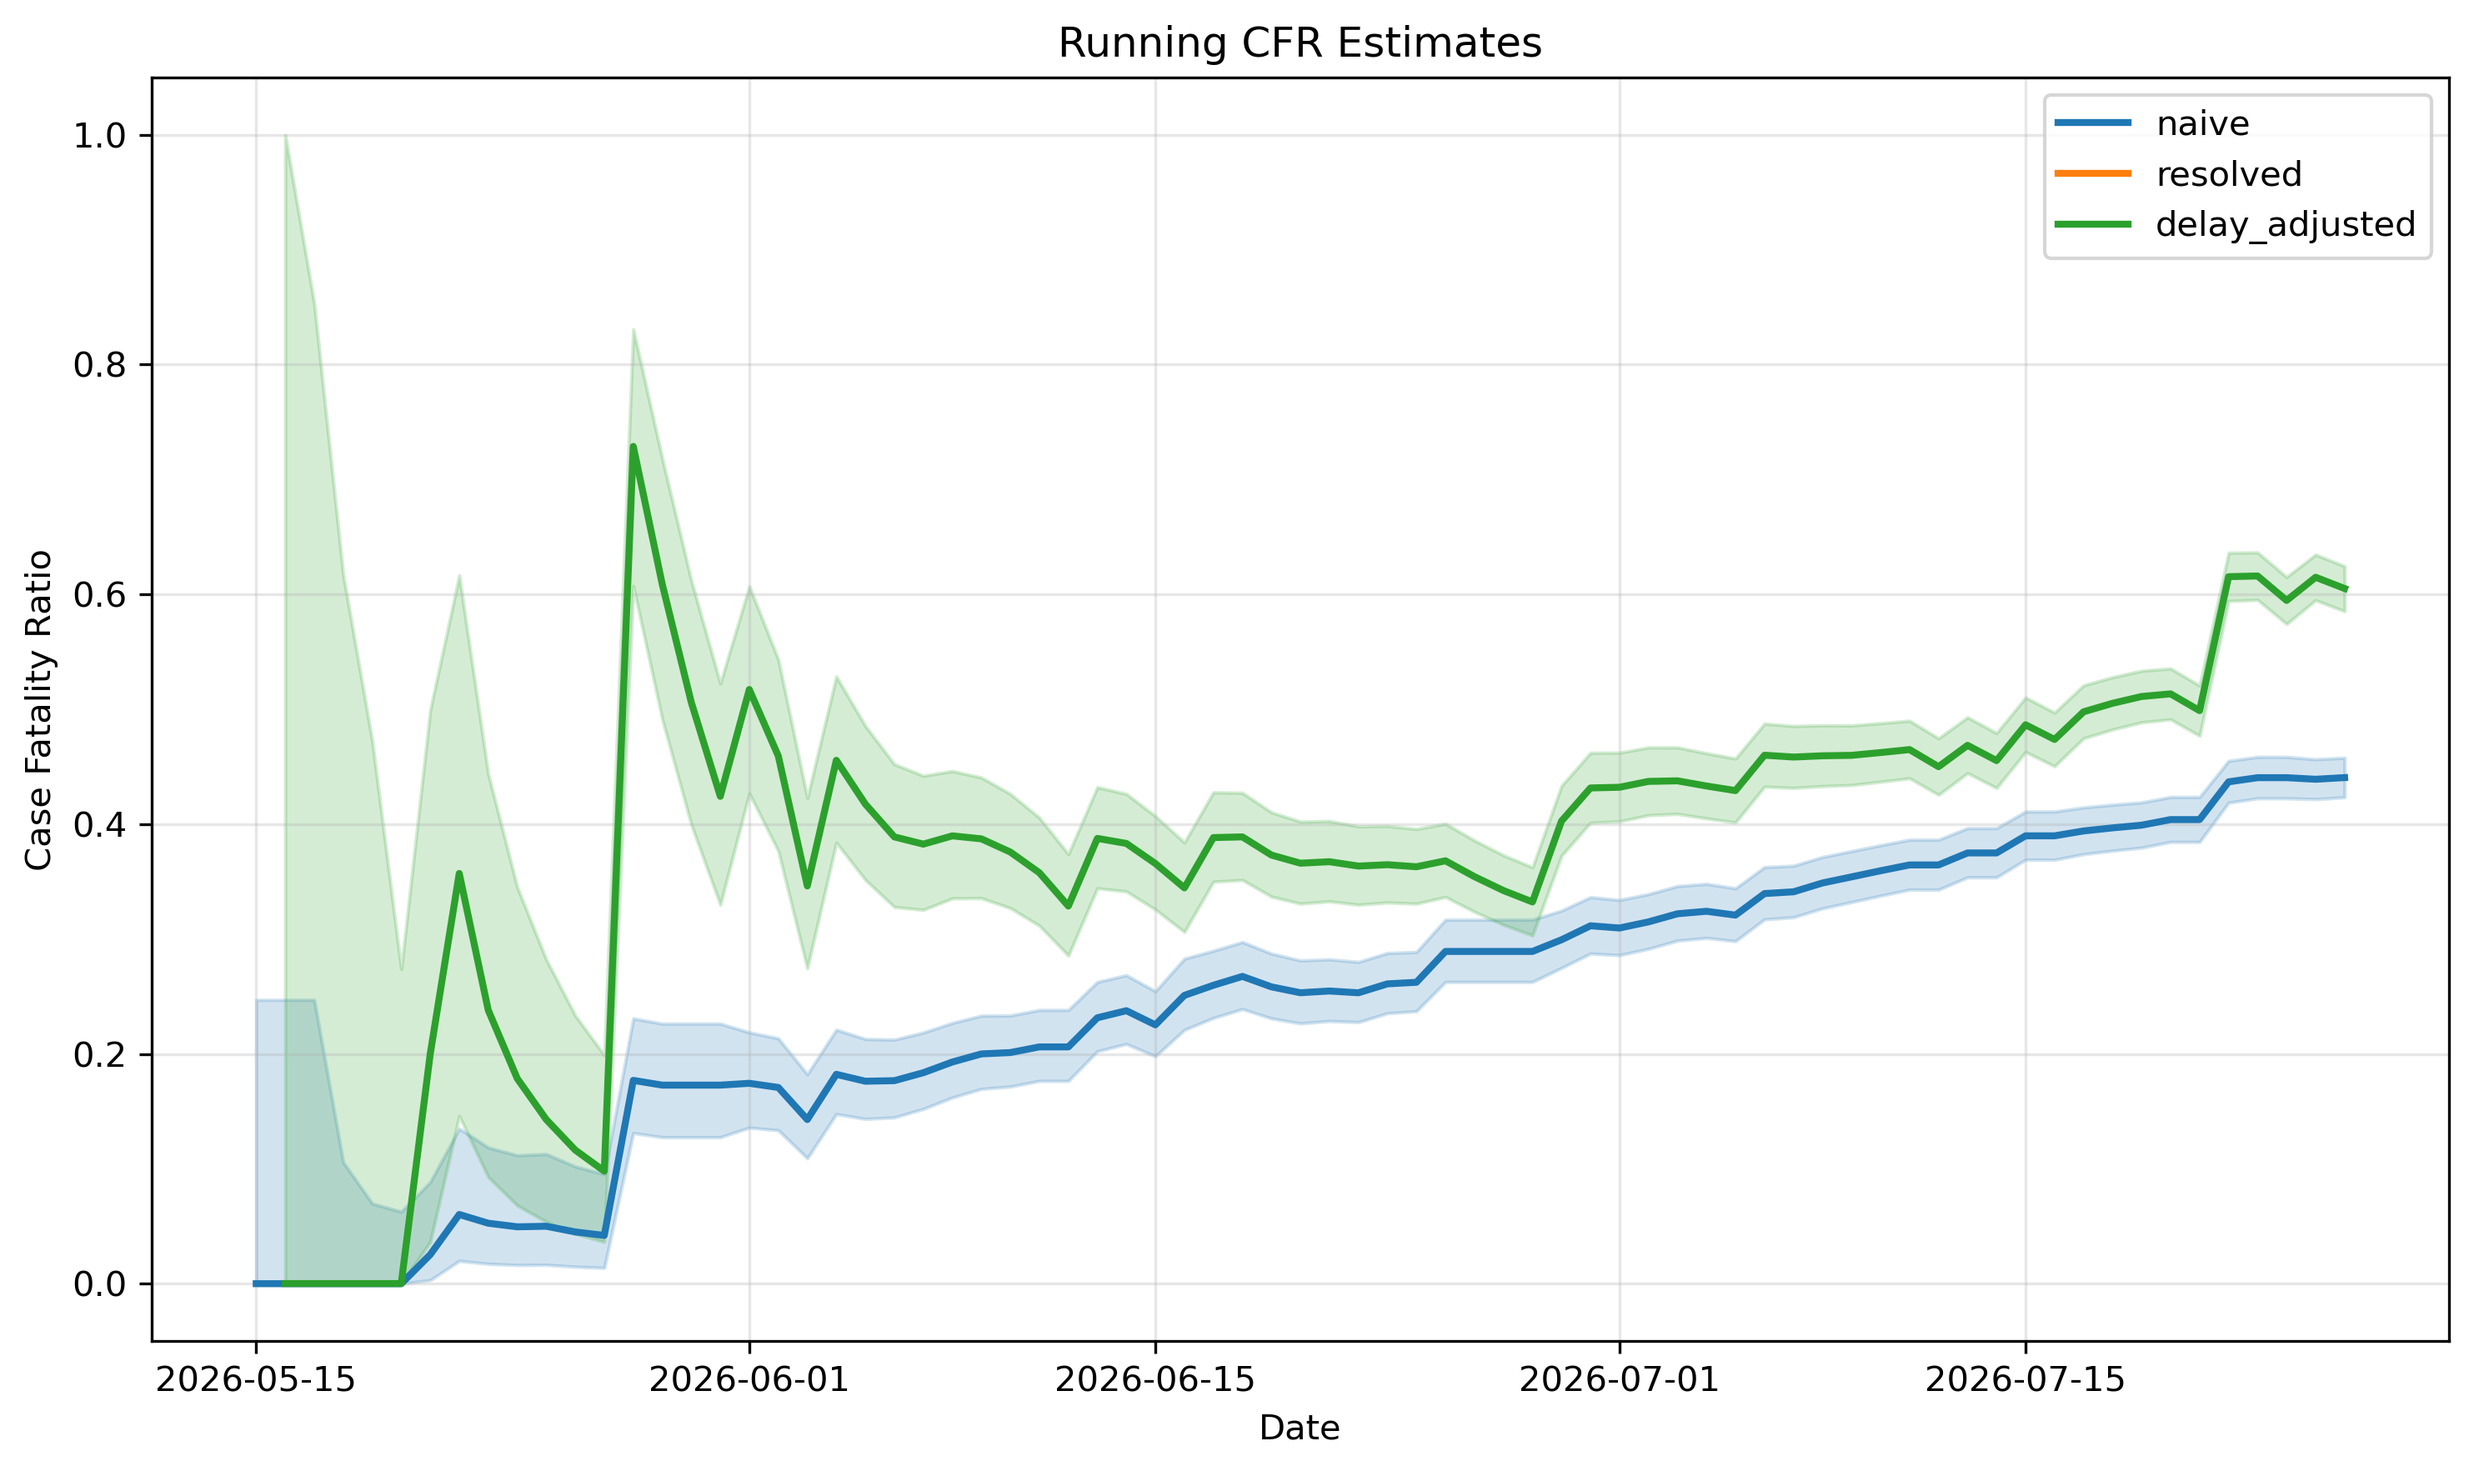
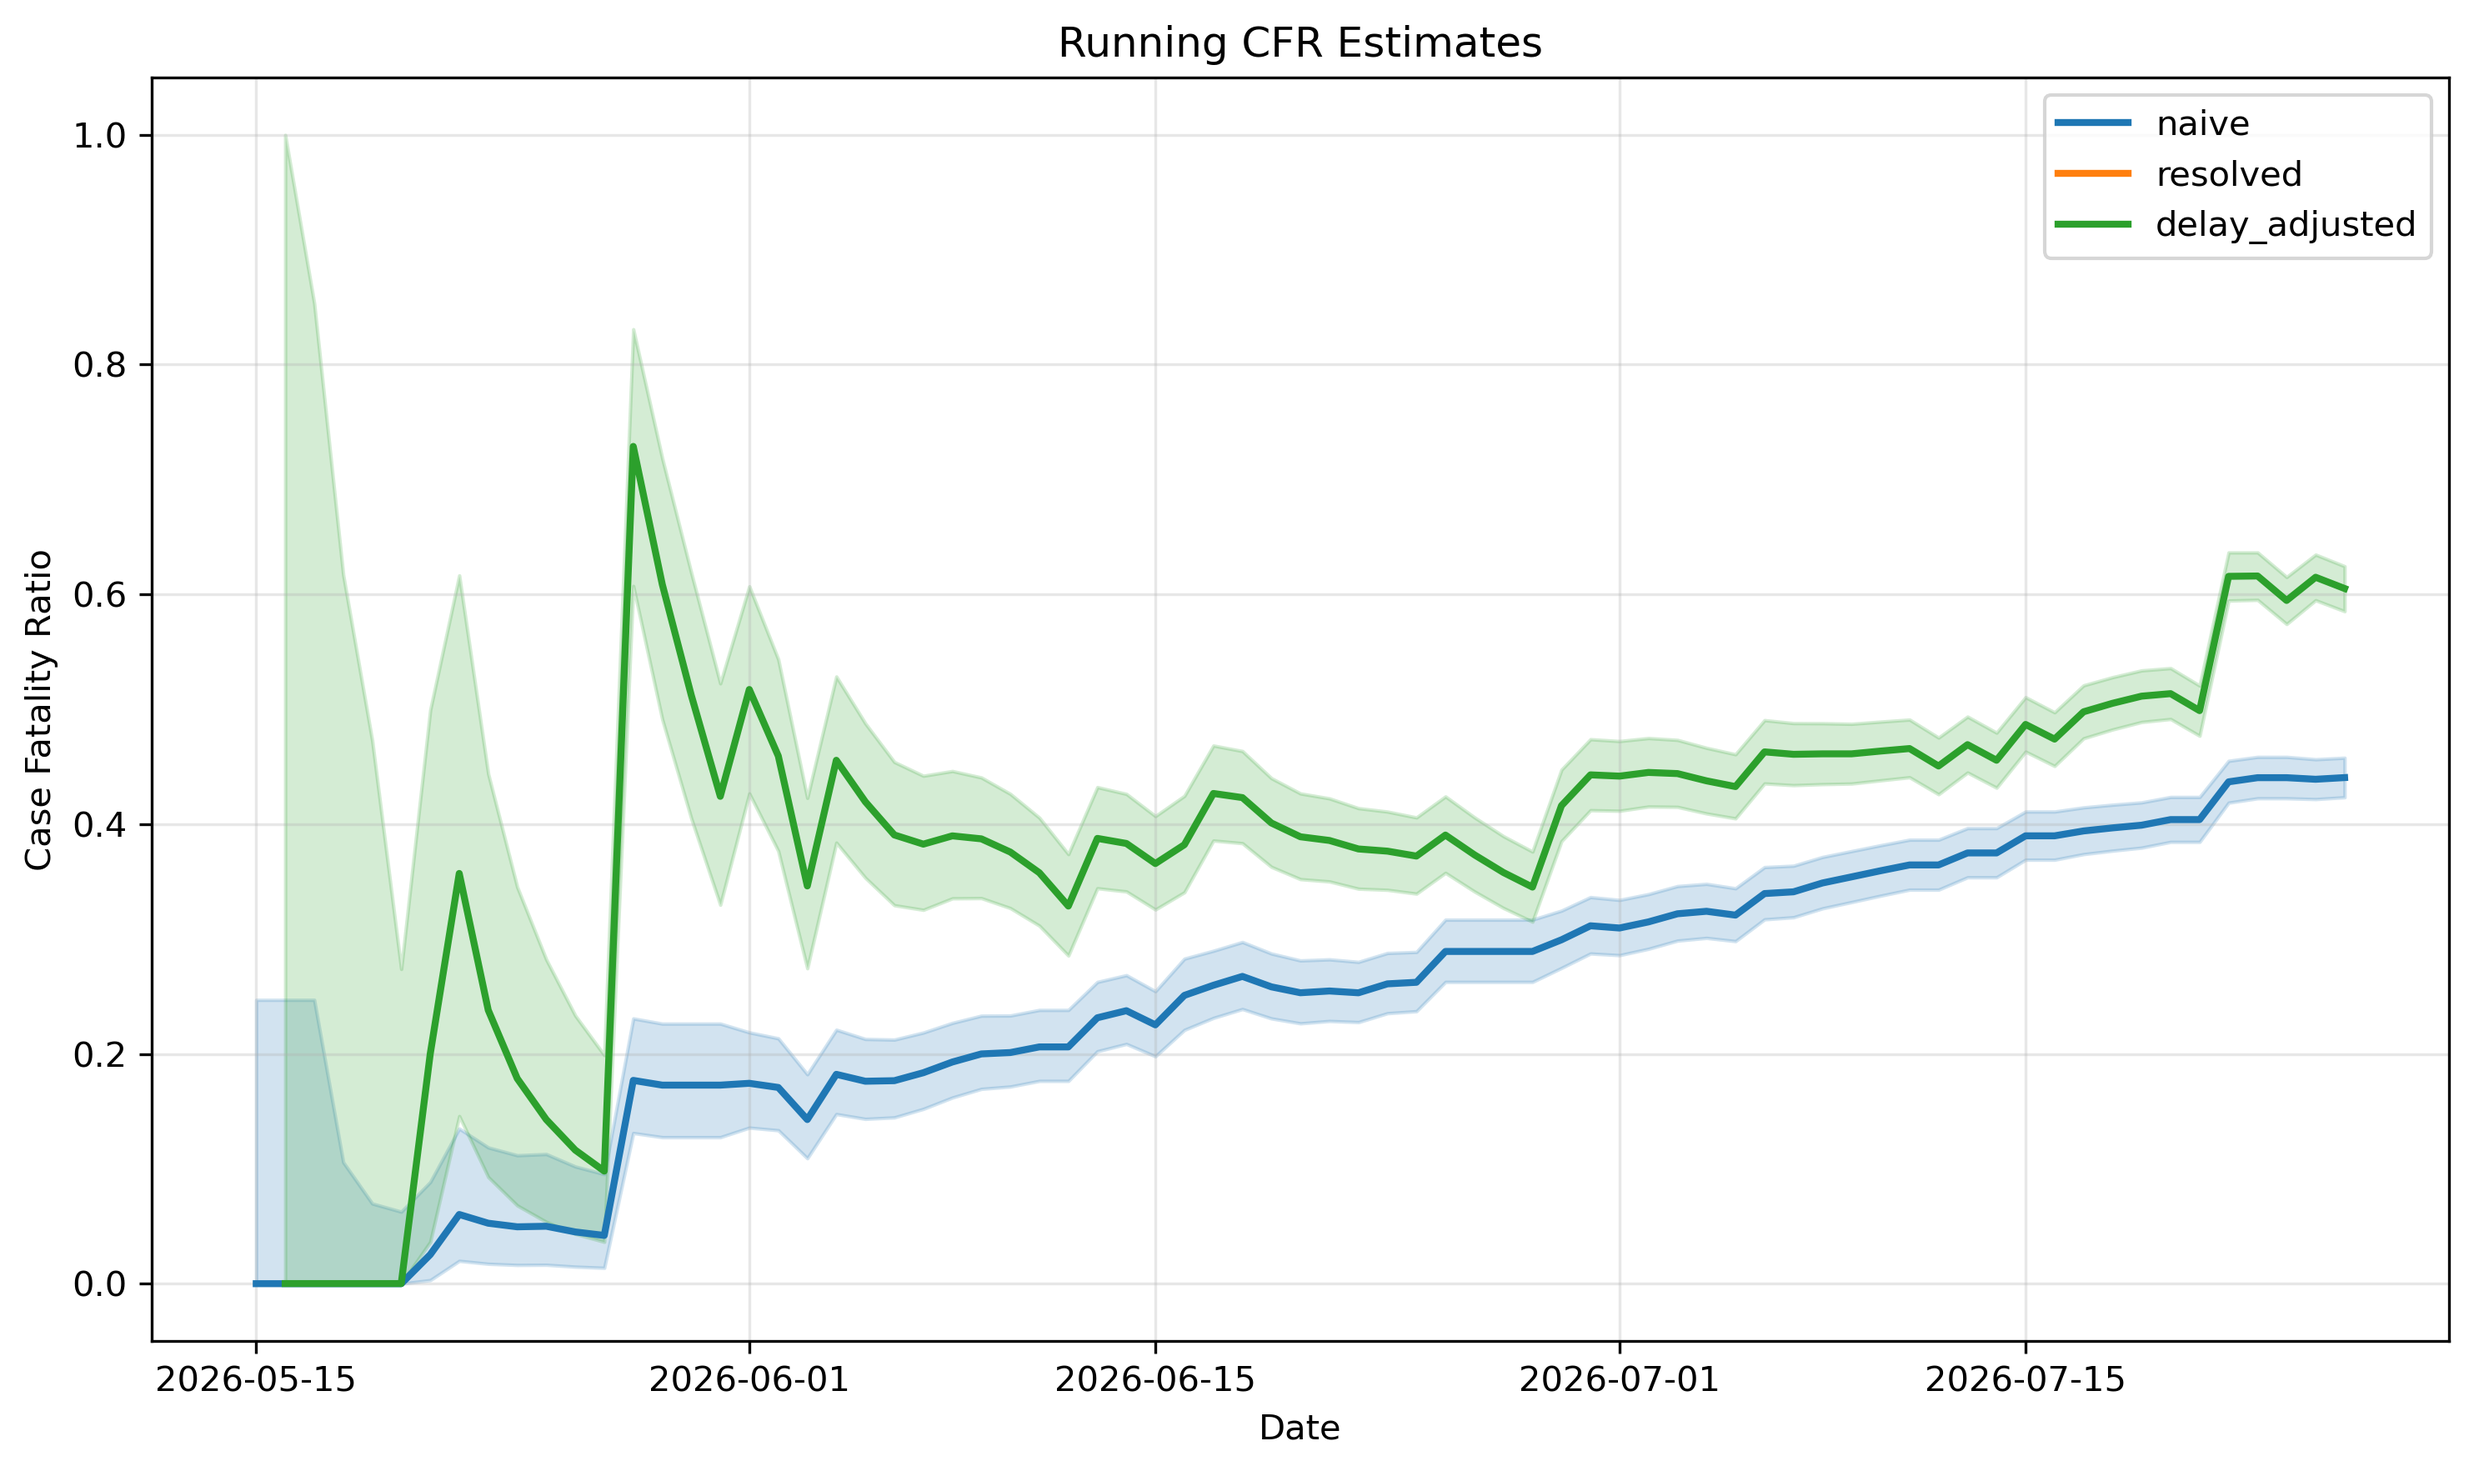
Actually did said correction

Changed region(s): [[0.465, 0.4674, 0.7439, 0.6544]]

diff --git a/cfr_exact.py b/cfr_exact.py
@@ -1882,10 +1882,11 @@ def running_cfr_from_count_table(
         prev = series[current_idx - 1]
         if not np.isfinite(current) or not np.isfinite(prev) or current >= prev:
             return
+        ratio = current/prev
 
         series[:current_idx] = np.where(
             np.isfinite(series[:current_idx]),
-            np.minimum(series[:current_idx], current),
+            np.rint(series[:current_idx]*ratio),
             series[:current_idx],
         )
 
